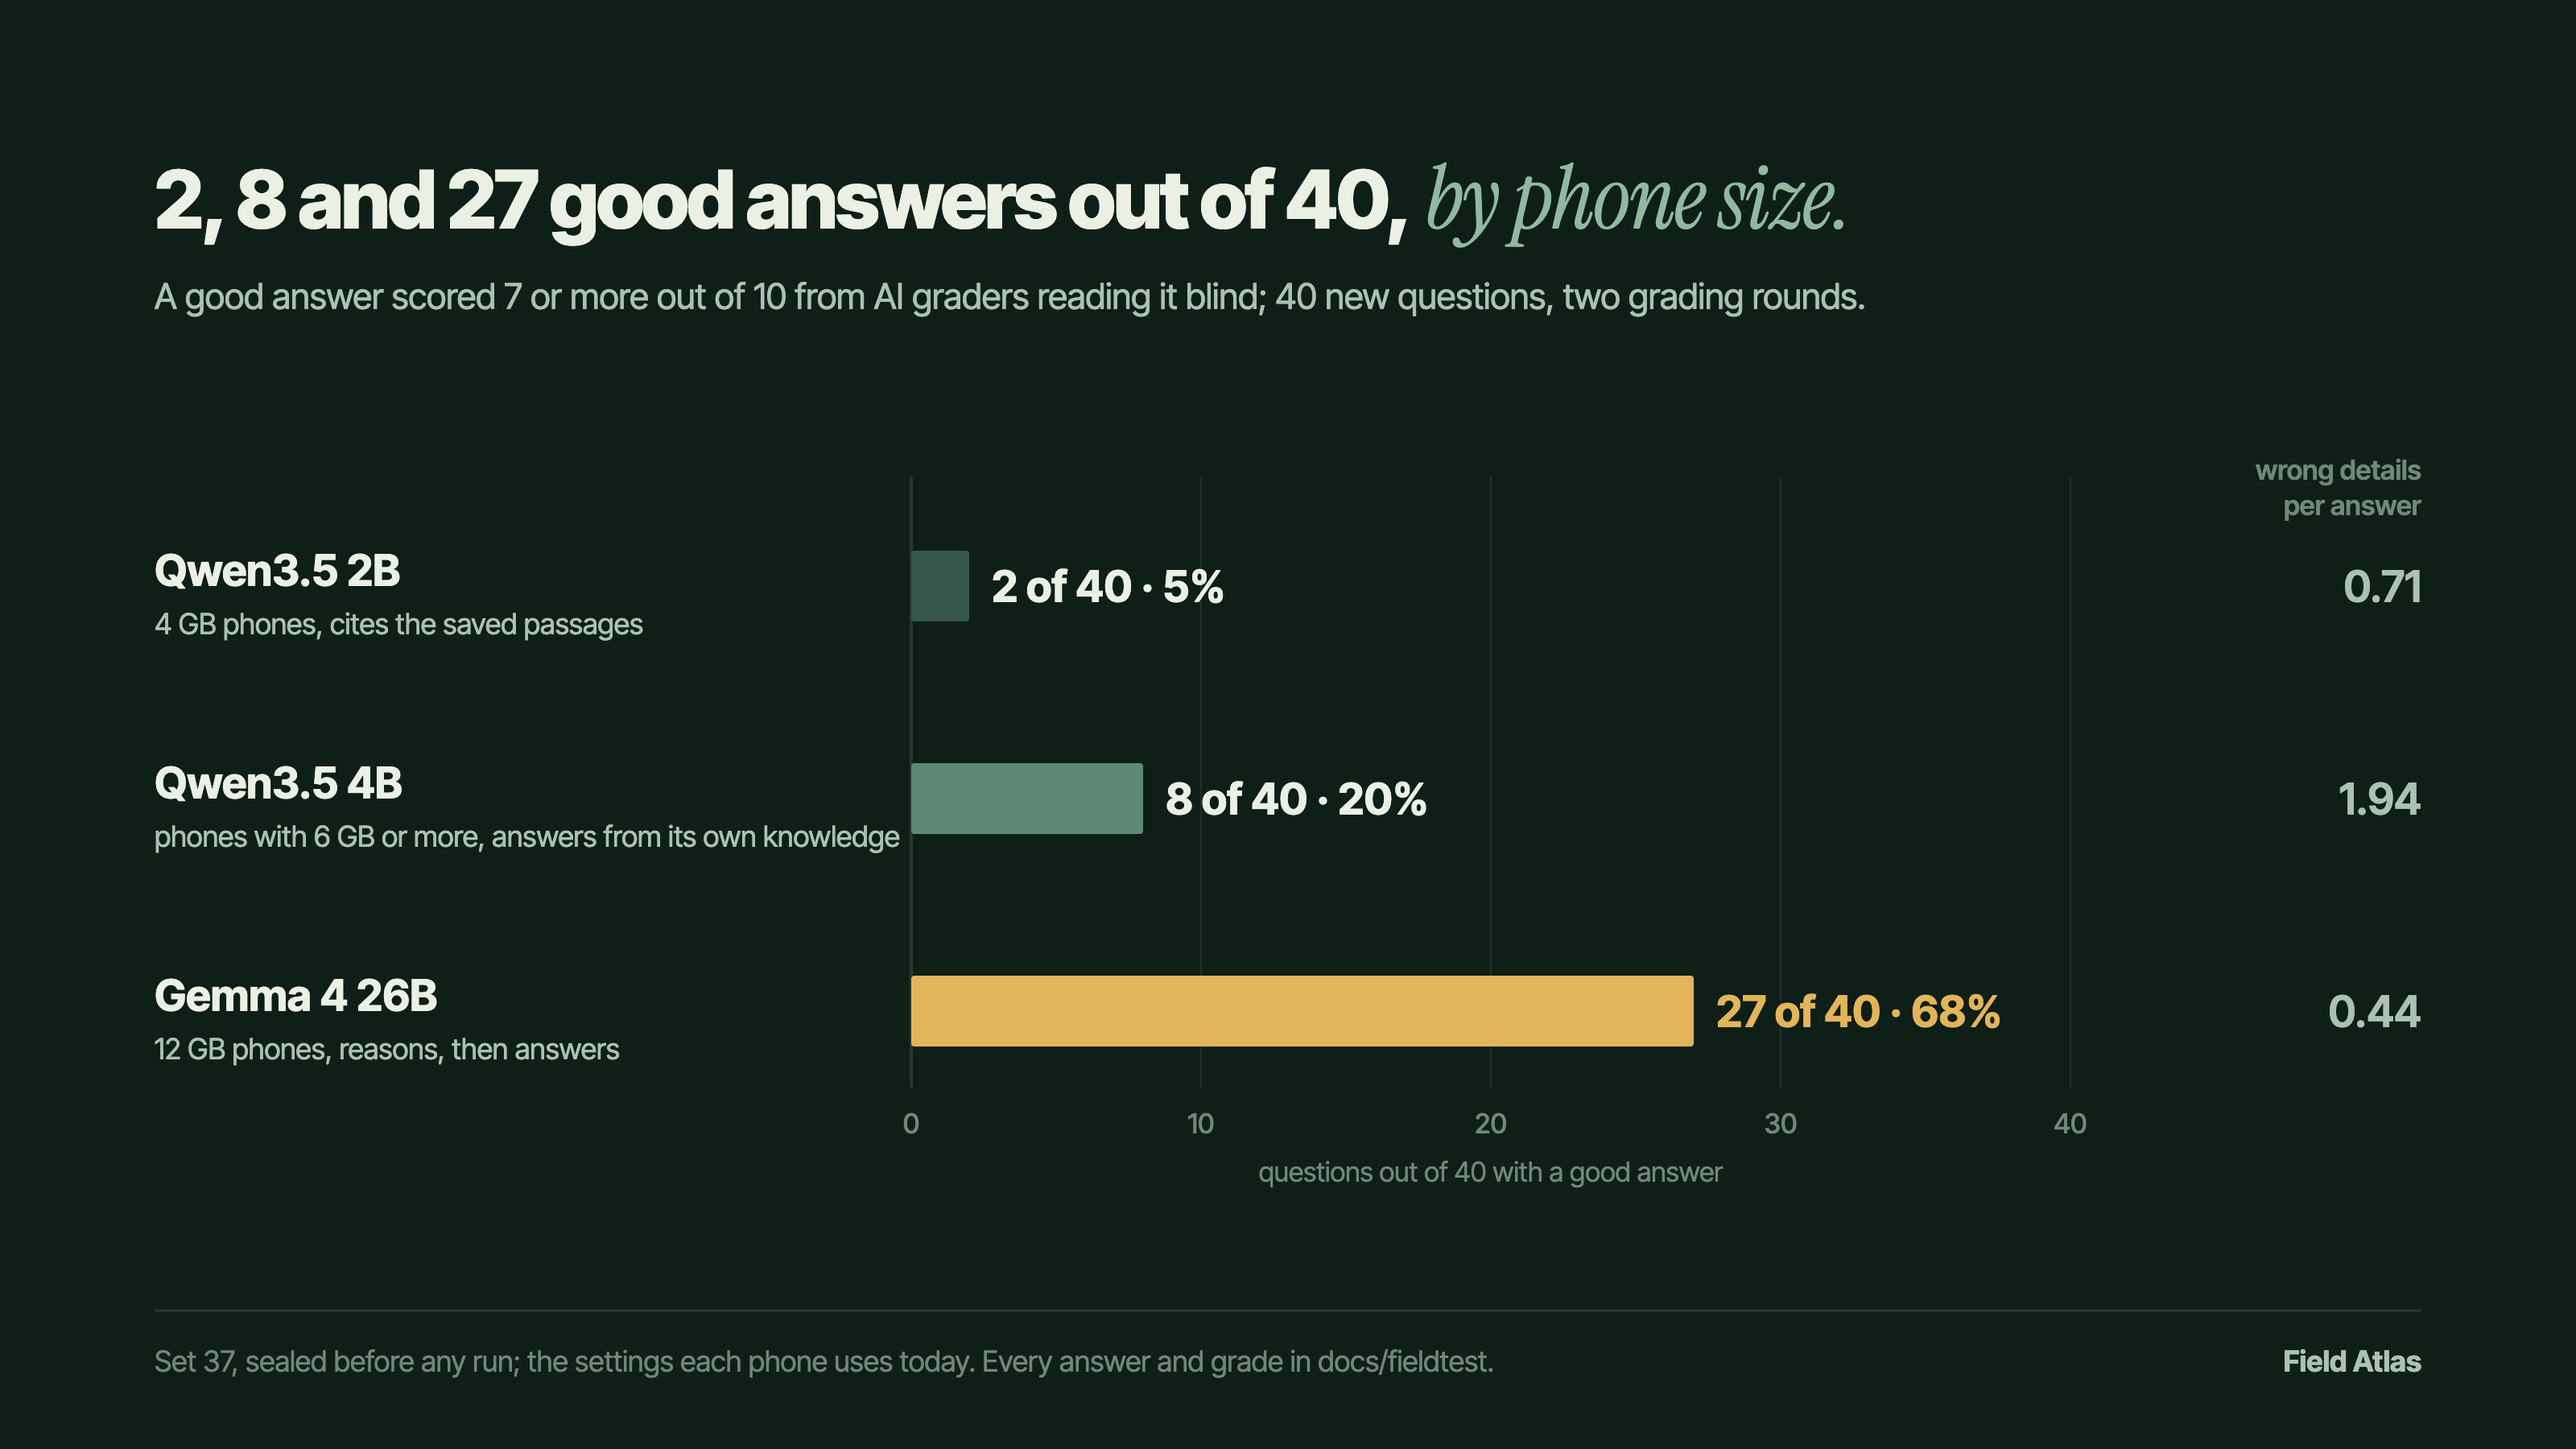
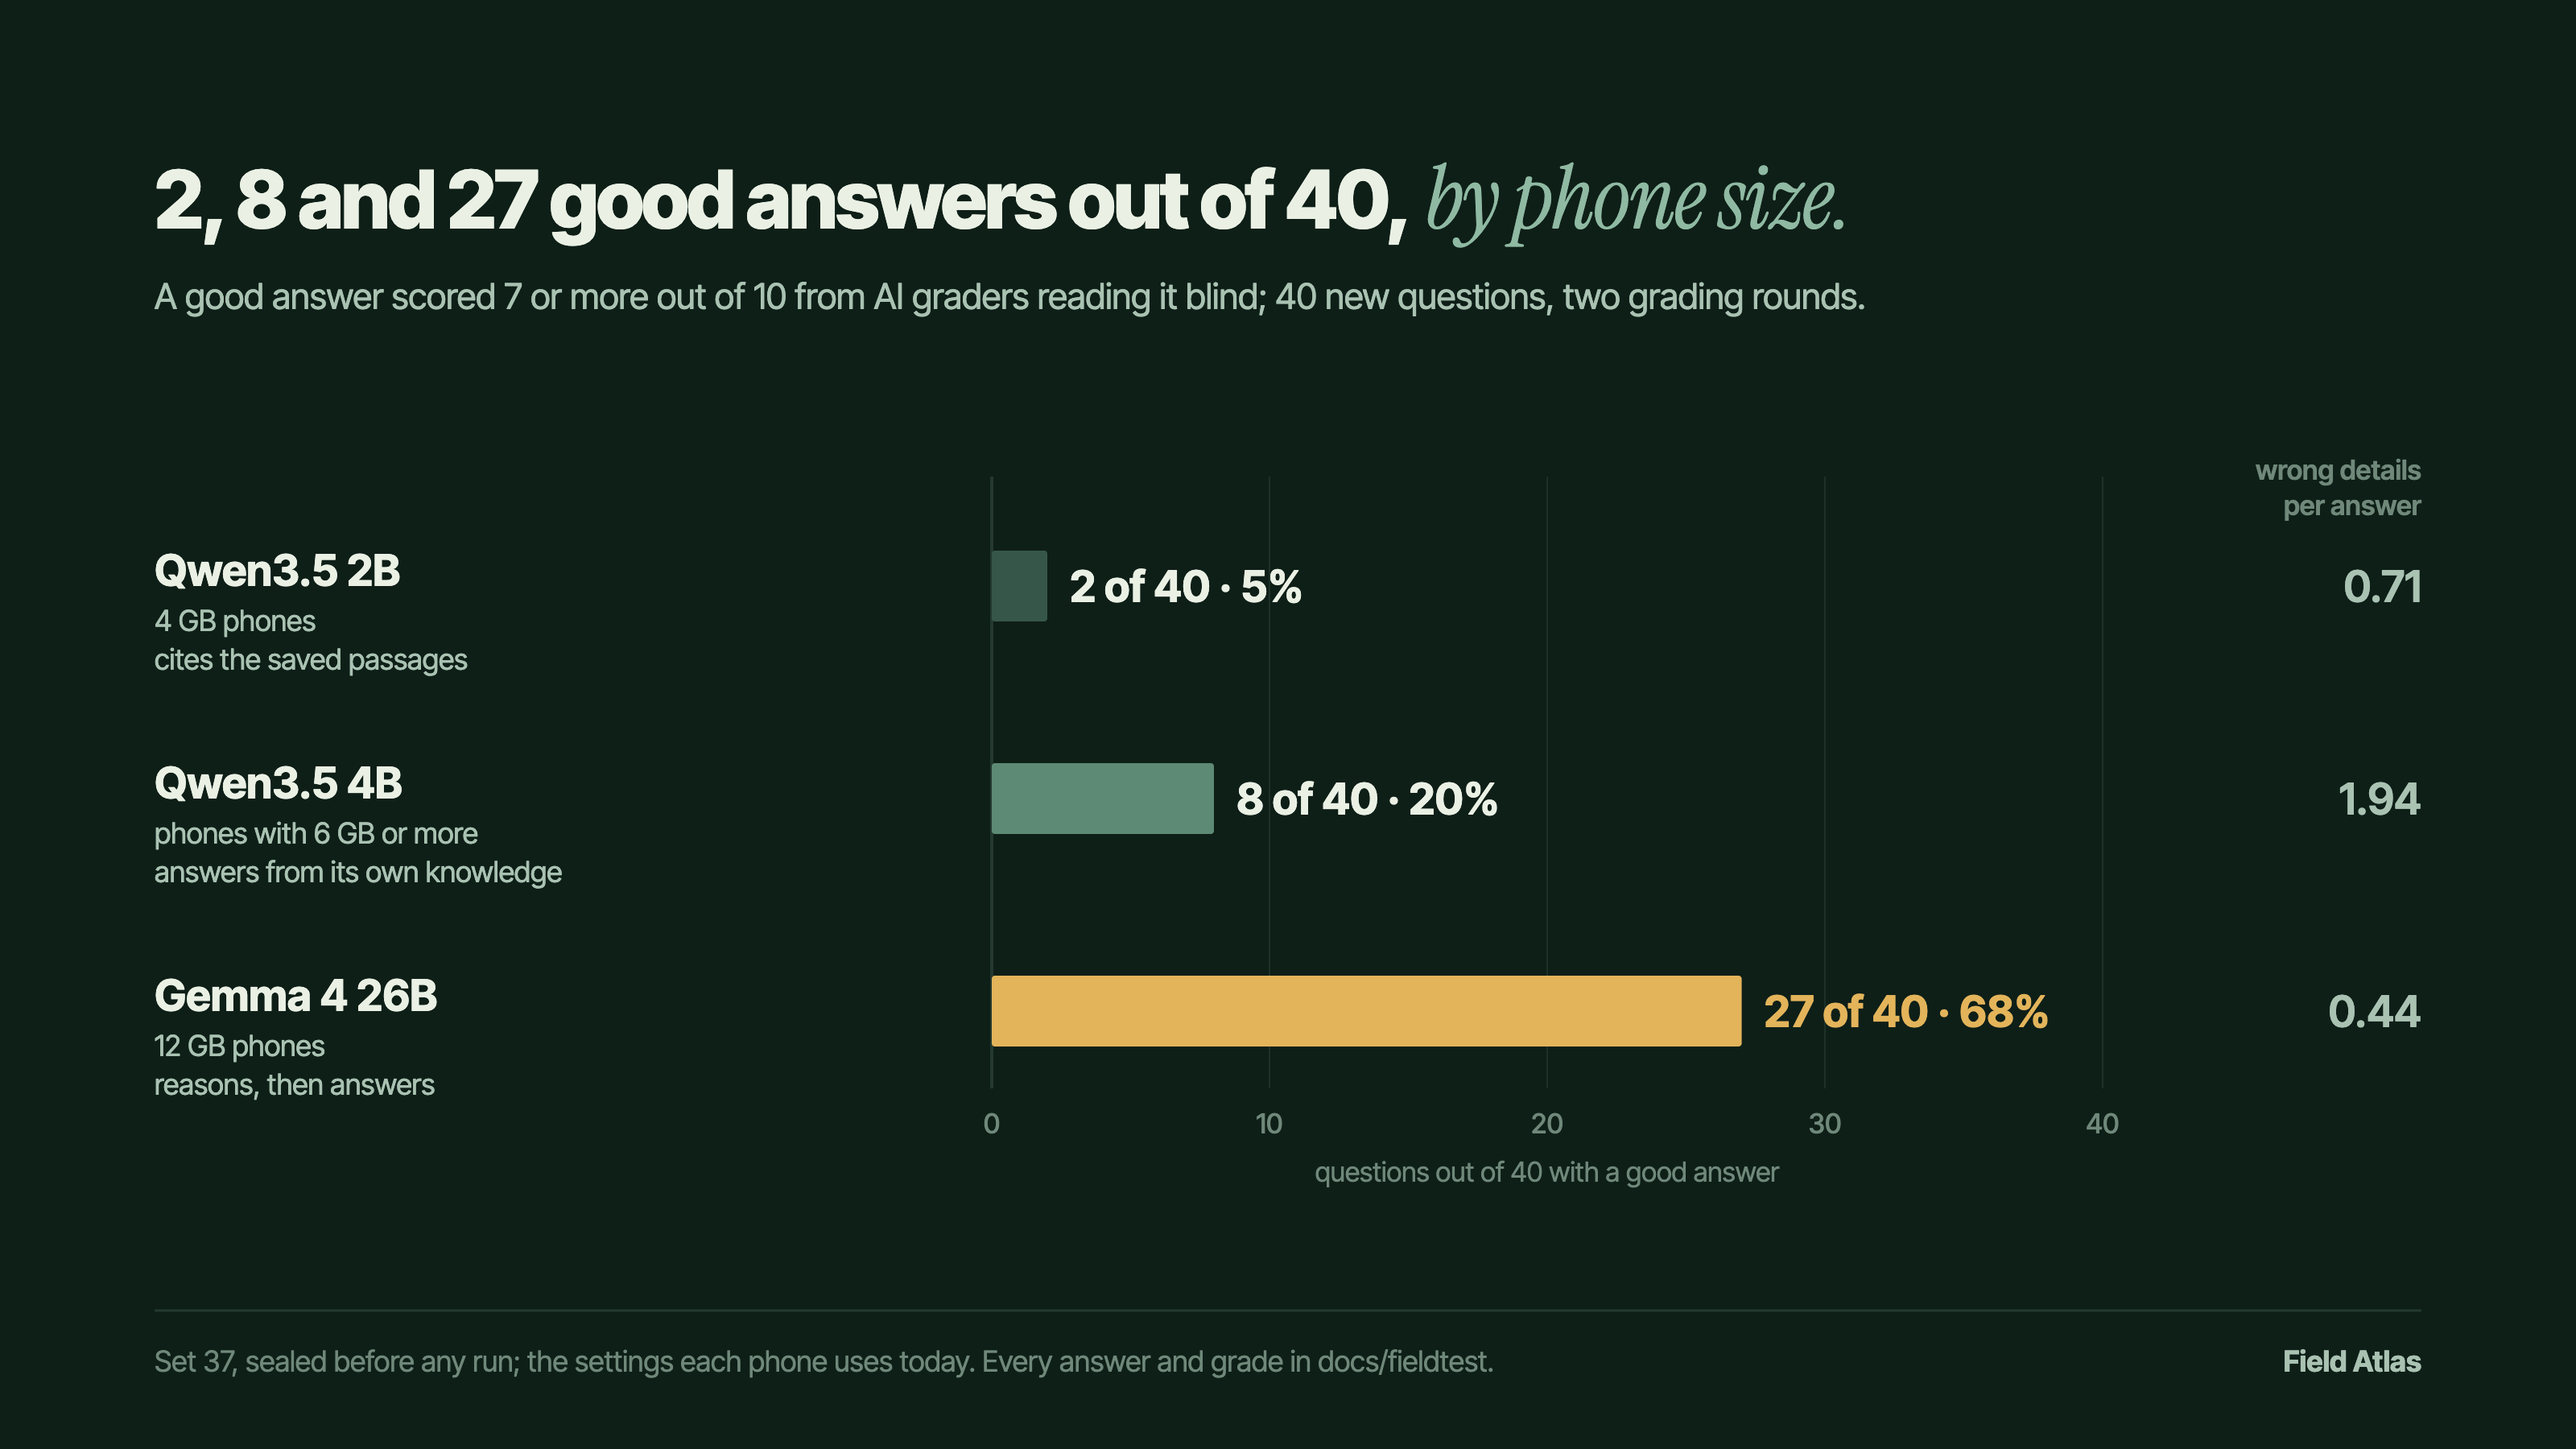
Give the models figure room between the labels and the bars
The tier and route labels ran into the axis once the 4B's read "phones
with 6 GB or more". Each label now takes two lines and the bars start
further right.

diff --git a/tools/charts/make_charts.py b/tools/charts/make_charts.py
@@ -128,7 +128,8 @@ def ladder(data):
     counts = ", ".join(str(r["good"]) for r in rows[:-1]) + " and " + str(rows[-1]["good"])
     body = heading((f"{counts} good answers out of {n},", " by phone size."), d["method"])
     top, row_h, bar_h = 300, 132, 44
-    scale_x, scale_w = X0 + 470, 720
+    # The label column holds the phone tier and the route on separate lines, clear of the axis.
+    scale_x, scale_w = X0 + 520, 690
 
     def x_of(v):
         return scale_x + scale_w * v / n
@@ -142,7 +143,8 @@ def ladder(data):
         y = top + 42 + i * row_h
         best = i == len(rows) - 1
         body += text(X0, y + 22, r["model"], 27, INK, 700)
-        body += text(X0, y + 52, f"{r['phone']}, {r['route']}", 18, DIM)
+        body += text(X0, y + 50, r["phone"], 18, DIM)
+        body += text(X0, y + 74, r["route"], 18, DIM)
         w = max(x_of(r["good"]) - scale_x, 3)
         body += f'<rect x="{scale_x}" y="{y}" width="{w:.1f}" height="{bar_h}" rx="2" fill="{fills[i % 3]}"/>'
         # The count and its share, so the bar reads at a glance without the axis.
